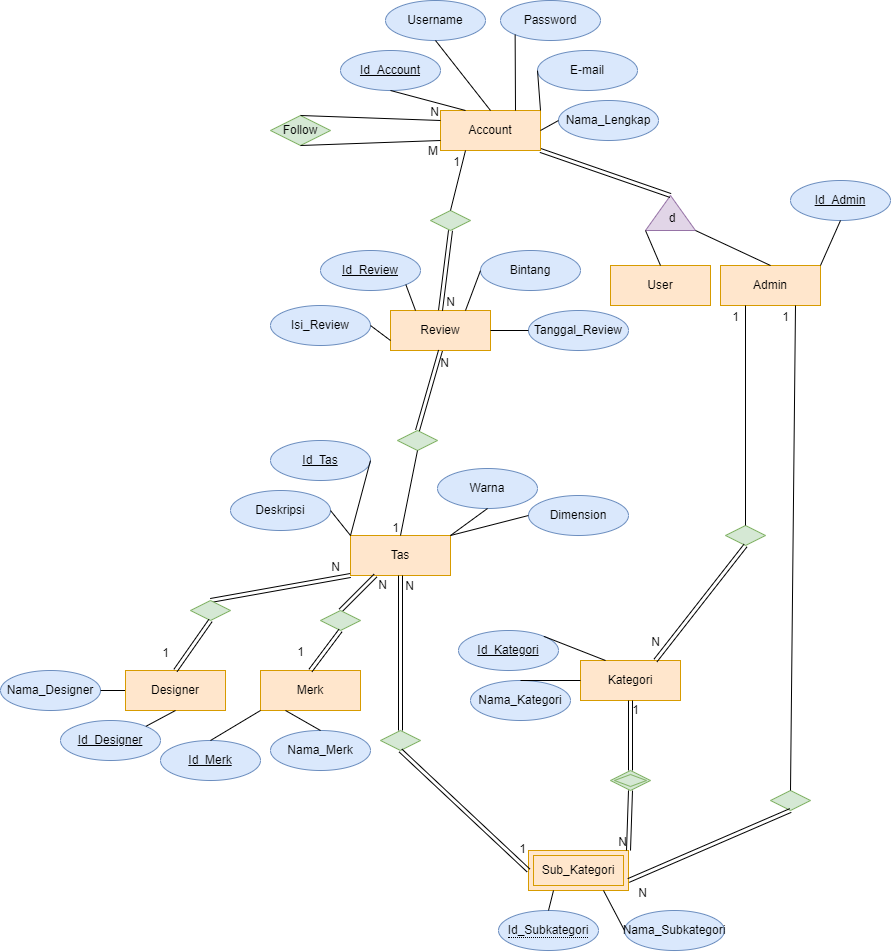
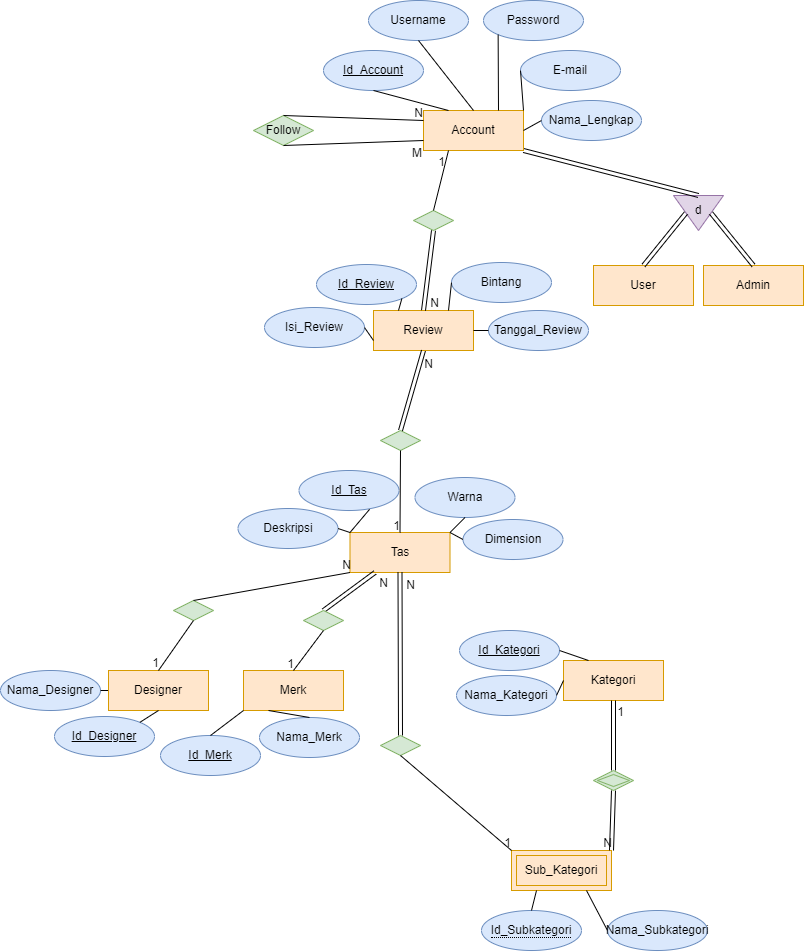
Pembetulan ERD dan transformasi
-Upadate ERD.png
-Update ERD-Information.md

diff --git a/Requirements-ERD-etc/ERD-Information.md b/Requirements-ERD-etc/ERD-Information.md
@@ -3,22 +3,14 @@
 Gambar ERD :
 ![ERD](./ERD.png)
 
-## USER
+## ACCOUNT
 
 Id_Account (PK)
 Username
 Password
 E-mail
 Nama_Lengkap
-
-## ADMIN
-
-Id_Account (PK)
-Username
-Password
-E-mail
-Nama_Lengkap
-Id_Admin
+IsAdmin
 
 ## FOLLOW
 
@@ -41,8 +33,7 @@ Deskripsi
 Warna
 Dimensi
 Id_Merk(FK)
-Id_Designer(FK)
-Id_Kategori(FK)
+Id_Designer(FK) Bisa NULL
 Id_Subkategori(FK)
 
 ## MERK
@@ -59,11 +50,9 @@ Nama_Designer
 
 Id_Kategori(PK)
 Nama_Kategori
-Id_Admin(FK)
 
 ## SUB_KATEGORI
 
 Id_Subkategori(PK)
 Nama_Subkategori
 Id_Kategori(PK,FK)
-Id_Admin(FK)
